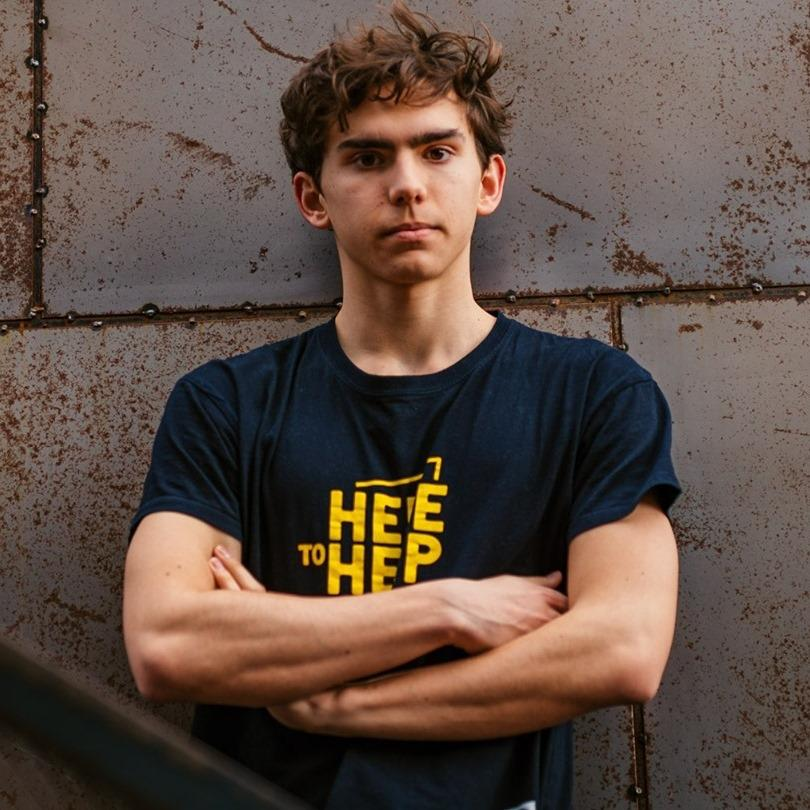
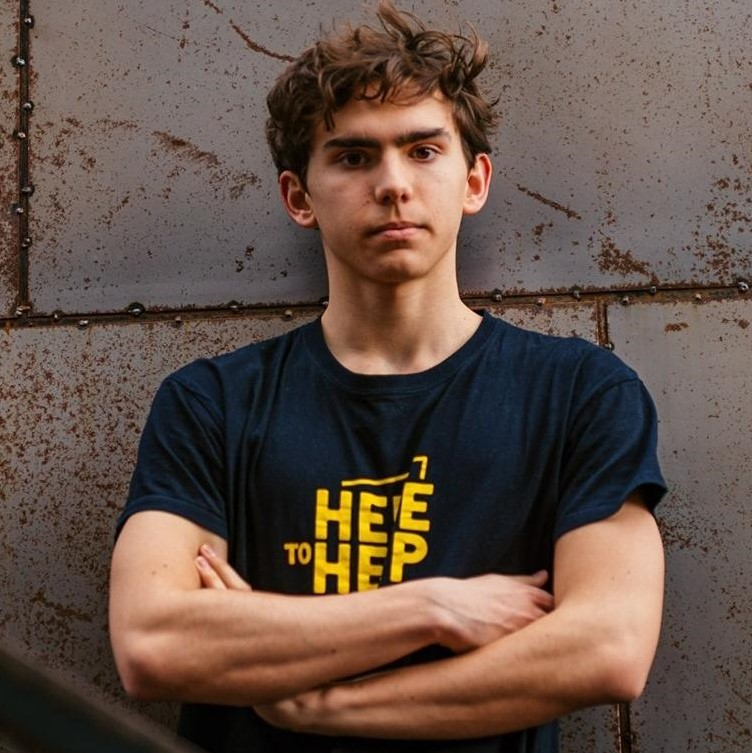
added local settings section + photos of us

diff --git a/src/views/InfoPage.vue b/src/views/InfoPage.vue
@@ -145,10 +145,10 @@
         <hr />
         <p>
           There are three filtering options: email address, job title and date.
-          The first two are global filters that apply to all visualizations.
-          They filter each one based on which fields are checked or if none are
-          checked the unfiltered dataset is visualized. Clicking on the "Apply
-          filters" button applies all currently selected filters.
+          The first two are only global filters that apply to all
+          visualizations. They filter each one based on which fields are checked
+          or if none are checked the unfiltered dataset is visualized. Clicking
+          on the "Apply filters" button applies all currently selected filters.
         </p>
         <img
           style="width: 25ch"
@@ -156,11 +156,17 @@
           alt="calendar matrix"
         />
         <p>
-          The last one (by date) can be applied locally from the local settings
-          menu in the top right corner of each visualization. This is useful in
-          situations where you want to see how different time periods compare.
+          The last one (by date) can be applied globally or locally (from the
+          local settings menu in the top right corner of each visualization).
+          This is useful in situations where you want to see how different time
+          periods compare.
         </p>
-        <!-- INSERT IMAGE OR GIF -->
+        <img src="@/assets/info_page/loc_sett.png" alt="calendar matrix" />
+        <p>
+          There also is a time bar at the bottom of each visualization that
+          shows you the local <span class="green-lf">(green)</span> and global
+          <span class="grey-lf">(grey)</span> filter as time periods.
+        </p>
       </div>
       <div id="layout" class="section">
         <h2>Layout</h2>
@@ -246,7 +252,7 @@
         <div class="about-us-cont">
           <div class="person">
             <img
-              src="@/assets/info_page/about_us/error.svg"
+              src="@/assets/info_page/about_us/frederik.jpg"
               alt="Photo of Frederik de Graaf"
             />
             <h3>Frederik de Graaf</h3>
@@ -261,7 +267,7 @@
           </div>
           <div class="person">
             <img
-              src="@/assets/info_page/about_us/error.svg"
+              src="@/assets/info_page/about_us/jard.jpg"
               alt="Photo of Jard van Roest"
             />
             <h3>Jard van Roest</h3>
@@ -276,7 +282,7 @@
           </div>
           <div class="person">
             <img
-              src="@/assets/info_page/about_us/error.svg"
+              src="@/assets/info_page/about_us/ziana.jpeg"
               alt="Photo of Sanziana Tudose"
             />
             <h3>Sanziana Tudose</h3>
@@ -320,7 +326,7 @@
           </div>
           <div class="person">
             <img
-              src="@/assets/info_page/about_us/error.svg"
+              src="@/assets/info_page/about_us/zdravko.jpg"
               alt="Photo of Zdravko Zdravkov"
             />
             <h3>Zdravko Zdravkov</h3>
@@ -416,6 +422,10 @@ p {
   margin: auto;
 }
 
+#what-is h2 {
+  margin-top: 0;
+}
+
 .link-icon {
   width: 0.8em;
   height: 0.8em;
@@ -426,6 +436,14 @@ p {
   gap: 1em;
   align-items: center;
   justify-content: center;
+}
+
+.green-lf {
+  color: var(--accent-color);
+}
+
+.grey-lf {
+  color: #c9c9c9af;
 }
 
 .about-us-cont {
